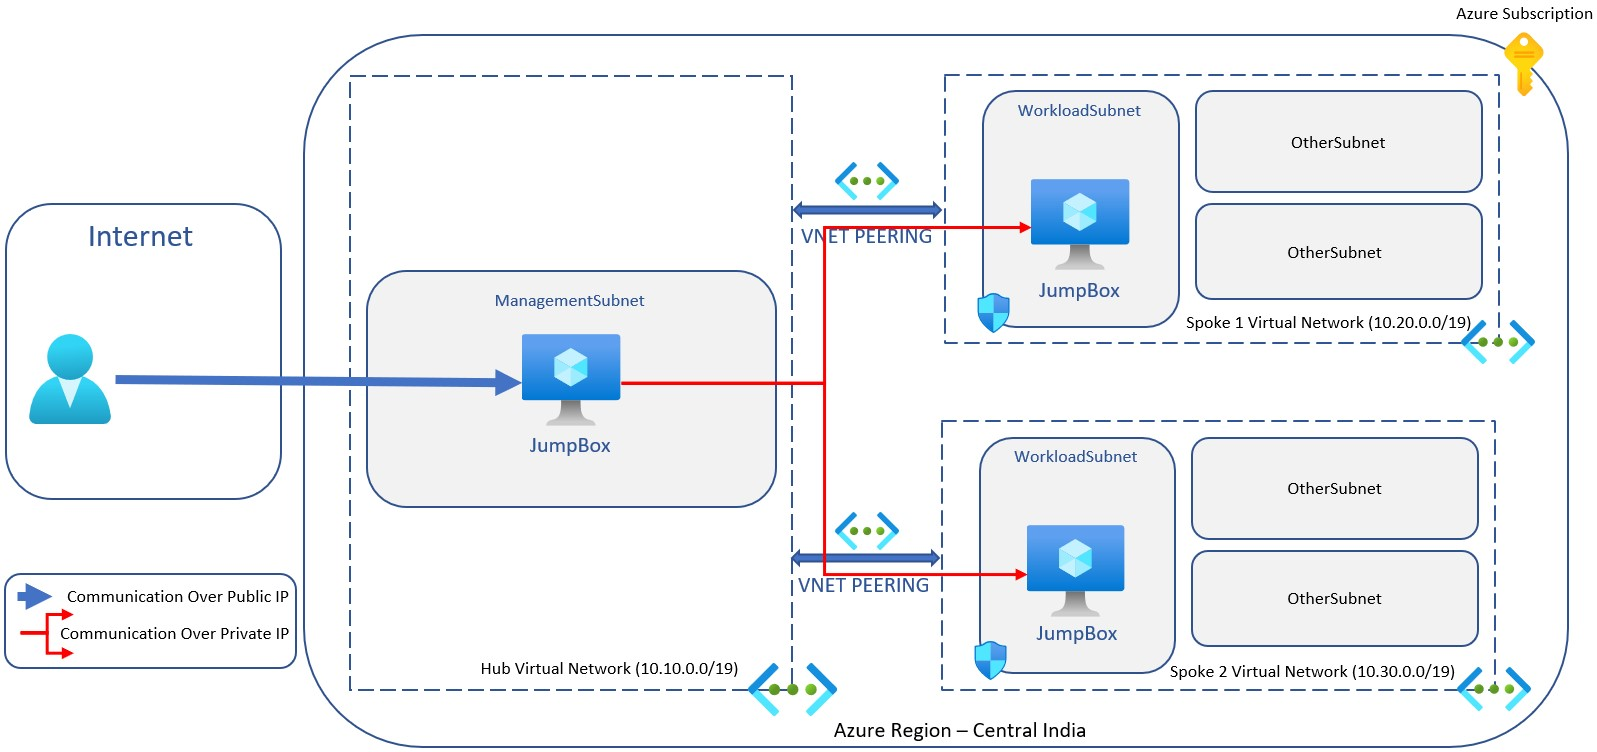
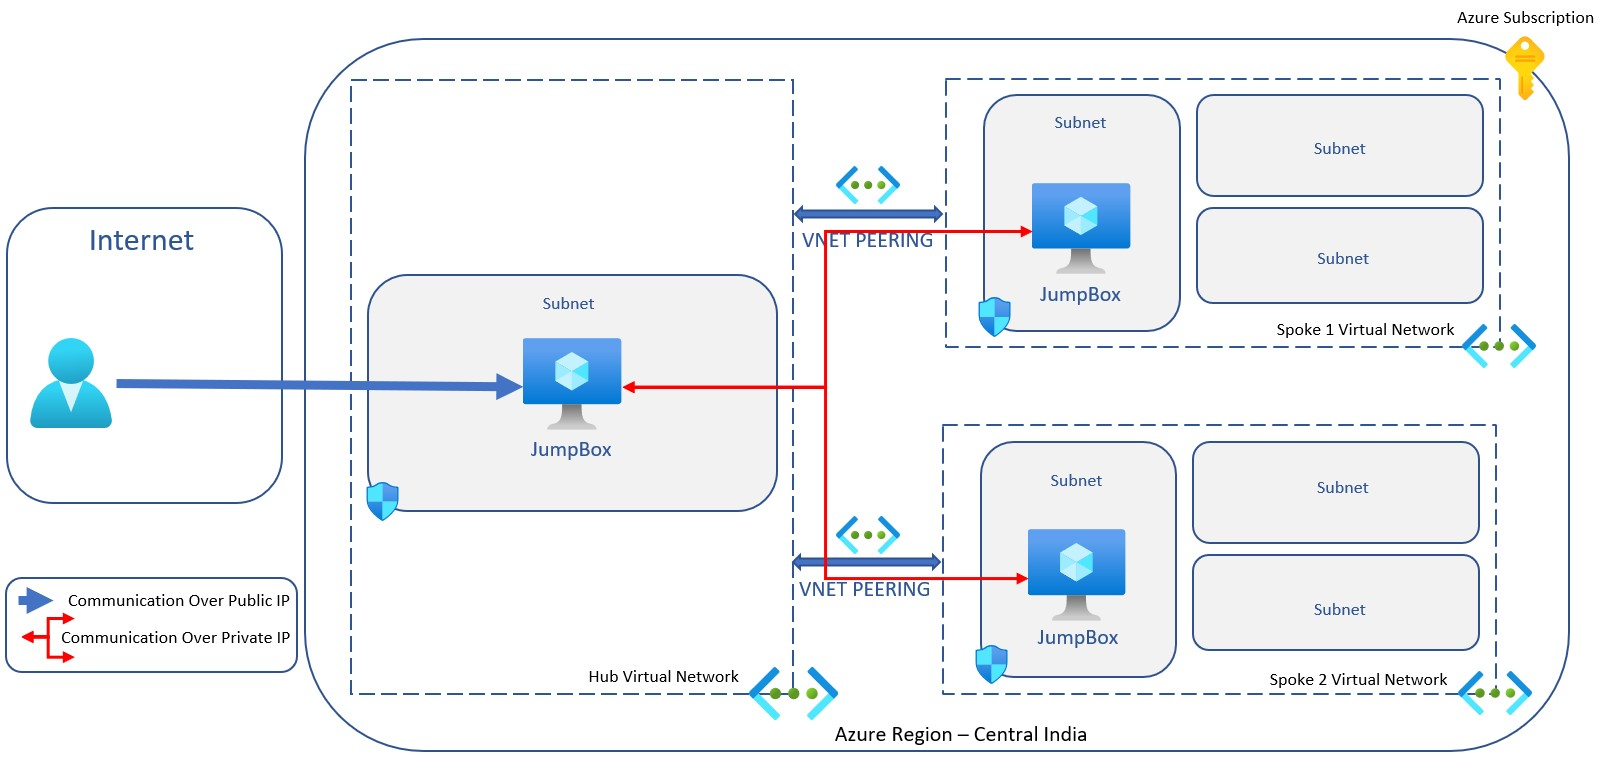
Added new post

diff --git a/content/post/implementing-hub-spoke-network-topology-in-azure-part2.md b/content/post/implementing-hub-spoke-network-topology-in-azure-part2.md
@@ -1,0 +1,228 @@
+---
+title: "Implementing Hub-Spoke network topology in Azure - Part 2" # Title of the blog post.
+date: 2020-09-06T01:00:00+05:30 # Date of post creation.
+description: "Article description." # Description used for search engine.
+featured: false # Sets if post is a featured post, making appear on the home page side bar.
+draft: false # Sets whether to render this page. Draft of true will not be rendered.
+toc: false # Controls if a table of contents should be generated for first-level links automatically.
+# menu: main
+thumbnail: "/images/azure.png" # Sets thumbnail image appearing inside card on homepage.
+shareImage: "/images/path/share.png" # Designate a separate image for social media sharing.
+codeMaxLines: 10 # Override global value for how many lines within a code block before auto-collapsing.
+codeLineNumbers: false # Override global value for showing of line numbers within code block.
+figurePositionShow: true # Override global value for showing the figure label.
+series : "Themes Guide"
+categories:
+  - Cloud
+  - Azure architecture
+tags:
+  - Azure
+  - Networking
+---
+
+Hi Everyone!
+
+This post is continuation of how to series about Hub-Spoke network topology in Azure. Over the time, I will updated this page with links to individual posts : 
+
+[Implementing Hub-Spoke network topology in Azure - Part 1](/post/implementing-hub-spoke-network-topology-in-azure-part1) 
+
+_This Post - Implementing Hub-Spoke network topology in Azure - Part 2_ 
+
+[Coming Soon - Introducing Azure Firewall in Hub-spoke network topology in Azure](#) 
+
+[Coming Soon - Connect your Hub with your On-Prem](#) 
+
+Now, we know the context of this topology and architecture let's start to implement it. In this post, I am going to use **azure portal** for creating the virtual networks and azure powershell module to create JumpBox in different virtual networks. 
+ 
+We will start by creating Hub Virtual Network(`hub-vnet`), with address space `10.10.0.0/19`. We will also create a subnet `ManagementSubnet` under hub virtual network with address space `10.10.1.0/24`
+
+![Overview of Hub VNet](/images/hub-spoke/overview_hub_vnet.jpg)
+
+ Please note, I have selected DDoS protection plan as Basic, but it is highly recommended to enable DDoS protection plan for your production environment and this is applicable for all of your virtual networks.
+
+Let's create Spoke 1 Virtual Network(`spoke1-vnet`), with address space `10.20.0.0/19`. We will also create a subnet `WorkloadSubnet` under Spoke1 virtual network with address space `10.20.1.0/24`
+
+![Overview of Spoke 1 VNet](/images/hub-spoke/overview_spoke1_vnet.jpg)
+
+Next create Spoke 2 Virtual Network(`spoke2-vnet`), with address space `10.30.0.0/19`. We will also create a subnet `WorkloadSubnet` under Spoke1 virtual network with address space `10.30.1.0/24`
+
+![Overview of Spoke 2 VNet](/images/hub-spoke/overview_spoke2_vnet.jpg)
+
+Two virtual networks can not talk to each other, so by default `hub-vnet` will not be able to connect with `spoke1-vnet` and `spoke2-vnet`. So, to make it work we need to enable vnet-peering between hub and spokes.
+
+Let's create vnet peering between `hub-vnet to spoke1-vnet` and vice versa, also we need to same for spoke2 vnet : 
+
+![hub-vnet to spoke1-vnet peering settings](/images/hub-spoke/hub-to-spoke1-peering.jpg)
+
+![hub-vnet to spoke2-vnet peering settings](/images/hub-spoke/hub-to-spoke2-peering.jpg)
+
+> **_NOTE:_**  You can also provide resource id if you do not have read access to the virtual network or subscription you wish to peer with.
+
+Once done, peering status should show as connected :
+
+![hub-vnet to spoke1-vnet peering connected](/images/hub-spoke/hub-to-spoke1-peering-connected.jpg)
+
+The interesting part is I have created peering between hub and spokes but not between spoke1 and spoke2, so spoke1 and spoke2 can not communicate with each other. you can ask me, can't we create peering between them? Yes! you can but you should not, I will try to explain the reason in next part and will show you how communication will be done between spokes if needed.
+
+
+Now for testing purpose, we are going to create JumpBox with IIS enabled in 3 different virtual networks. Out of which Hub JumpBox will only have pubic ip along with private ip and other two JumpBox will only have private ip. Below single script will be used to create different virtual machines. 
+
+{{< highlight powershell >}}
+$LocationName = Read-Host `
+                    -Prompt 'Enter Location'
+$ResourceGroupName = Read-Host `
+                         -Prompt 'Enter Resource Group Name'
+
+$VMName = Read-Host `
+              -Prompt 'Enter Virtual Machine Name'
+$ComputerName = $VMName
+$VMSize = "Standard_B1ms"
+
+$NetworkName = Read-Host `
+                   -Prompt 'Enter Virtual Network Name'
+$SubnetName = Read-Host `
+                  -Prompt 'Enter Subnet Name'
+ 
+$NICName = "$($VMName)-Nic"
+
+$rdpRule = New-AzNetworkSecurityRuleConfig `
+              -Name Rdp-Rule `
+              -Description "Allow RDP" `
+              -Access Allow `
+              -Protocol Tcp `
+              -Direction Inbound `
+              -Priority 1000 `
+              -SourceAddressPrefix Internet `
+              -SourcePortRange * `
+              -DestinationAddressPrefix * `
+              -DestinationPortRange 3389
+
+$networkSecurityGroup = New-AzNetworkSecurityGroup `
+                           -ResourceGroupName $ResourceGroupName `
+                           -Location $LocationName `
+                           -Name "$($VMName)-Nsg" `
+                           -SecurityRules $rdpRule
+
+$Vnet = Get-AzVirtualNetwork `
+            -Name $NetworkName
+$SingleSubnet = Set-AzVirtualNetworkSubnetConfig `
+                   -VirtualNetwork $Vnet `
+                   -Name $SubnetName `
+                   -NetworkSecurityGroup $networkSecurityGroup
+
+$Vnet = Set-AzVirtualNetwork `
+           -VirtualNetwork $VNET
+
+$SingleSubnet = Get-AzVirtualNetworkSubnetConfig `
+                   -VirtualNetwork $Vnet `
+                   -Name $SubnetName `
+
+$NIC = Get-AzNetworkInterface `
+          -Name $NICName
+$PipRequired = Read-Host `
+                   -Prompt 'Do you want to enable public ip for this virtual machine? (Press Y to Yes)'
+
+if($PipRequired -eq "Y"){
+    $Pip = New-AzPublicIpAddress `
+              -ResourceGroupName $ResourceGroupName `
+              -Location $LocationName `
+              -AllocationMethod Dynamic `
+              -Sku Basic `
+              -Name "$($VMName)-PublicIp"
+
+$ipconfig = New-AzNetworkInterfaceIpConfig `
+               -Name "$($VMName)-IpConfig" `
+               -Subnet $SingleSubnet -PublicIpAddress $Pip
+}
+else {
+$ipconfig = New-AzNetworkInterfaceIpConfig `
+               -Name "$($VMName)-IpConfig" `
+               -Subnet $SingleSubnet
+}
+
+$NIC = New-AzNetworkInterface `
+          -Name $NICName `
+          -ResourceGroupName $ResourceGroupName `
+          -Location $LocationName `
+          -IpConfiguration $ipconfig
+
+$Credential = Get-Credential `
+                 -Message "Enter a username and password for the virtual machine"
+
+$VirtualMachine = New-AzVMConfig `
+                     -VMName $VMName `
+                     -VMSize $VMSize
+
+$VirtualMachine = Set-AzVMBootDiagnostic `
+                     -VM $VirtualMachine `
+                     -Disable
+
+$VirtualMachine = Set-AzVMOperatingSystem `
+                     -VM $VirtualMachine `
+                     -Windows `
+                     -ComputerName $ComputerName `
+                     -Credential $Credential `
+                     -ProvisionVMAgent `
+                     -EnableAutoUpdate
+
+$VirtualMachine = Add-AzVMNetworkInterface `
+                     -VM $VirtualMachine `
+                     -Id $NIC.Id
+$VirtualMachine = Set-AzVMSourceImage `
+                     -VM $VirtualMachine `
+                     -PublisherName 'MicrosoftWindowsServer' `
+                     -Offer 'WindowsServer' `
+                     -Skus '2019-Datacenter' `
+                     -Version latest
+$VirtualMachine = Set-AzVMOSDisk `
+                     -VM $VirtualMachine `
+                     -Name "$($VMName)-OsDisk" `
+                     -StorageAccountType "Standard_LRS" `
+                     -Windows `
+                     -DiskSizeInGB 127 `
+                     -CreateOption FromImage 
+
+New-AzVM `
+   -ResourceGroupName $ResourceGroupName `
+   -Location $LocationName `
+   -VM $VirtualMachine `
+   -Verbose
+
+
+# Install IIS
+$PublicSettings = '{"commandToExecute":"powershell Add-WindowsFeature Web-Server"}'
+
+Set-AzVMExtension `
+        -ExtensionName "IIS" `
+        -ResourceGroupName $ResourceGroupName `
+        -VMName $VMName `
+        -Publisher "Microsoft.Compute" `
+        -ExtensionType "CustomScriptExtension" -TypeHandlerVersion 1.4 `
+        -SettingString $PublicSettings -Location $LocationName
+{{< /highlight >}}
+
+Once completed, let's see how data flows between hub to spokes. 
+
+
+#### Hub To Spokes
+
+Since, we have established the peering between Hub and spokes, these spokes are reachable from hub.
+
+![Spoke vnets are reachable from Hub vnet](/images/hub-spoke/hub-to-spokes-reachable.jpg)
+
+
+#### Spokes To Hub
+
+Hub is also reachable from both spokes.
+
+![Hub vnet is reachable from Spoke 1 vnet](/images/hub-spoke/spoke1-to-hub-reachable.jpg)
+
+![Hub vnet is reachable from Spoke 2 vnet](/images/hub-spoke/spoke2-to-hub-reachable.jpg)
+
+#### Spoke To Spoke
+Interesting! if you see the above screenshot, communication between spokes are not working. Why?  Let's discuss it in next post!
+
+Here is the updated architecture, we just implemented - 
+
+
+![Updated architecture](/images/hub-spoke/implemented-hub-spoke-topology.jpg)

diff --git a/content/post/implementing-hub-spoke-network-topology-in-azure-part1.md b/content/post/implementing-hub-spoke-network-topology-in-azure-part1.md
@@ -26,7 +26,7 @@ With this post, I'll start a new how to series about Hub-Spoke network topology 
 
 _This Post - Implementing Hub-Spoke network topology in Azure - Part 1_
 
-[Coming Soon - Implementing Hub-Spoke network topology in Azure - Part 2](#) 
+[Implementing Hub-Spoke network topology in Azure - Part 2](/post/implementing-hub-spoke-network-topology-in-azure-part2) 
 
 [Coming Soon - Introducing Azure Firewall in Hub-spoke network topology in Azure](#) 
 
@@ -62,6 +62,6 @@ The architecture consists of the following components.
 
 In the above diagram, though I have shown all virtual networks are in same subscription and same region but please note it is absolutely possible to connect virtual networks from different subscription or different azure region.
 
-In my next post, I will start to implement the architecture.
+In my next [post](/post/implementing-hub-spoke-network-topology-in-azure-part2) , I will start to implement the architecture.
 
 [^1]:  [Azure Architecture Reference](https://docs.microsoft.com/en-us/azure/architecture/reference-architectures/hybrid-networking/hub-spoke)
